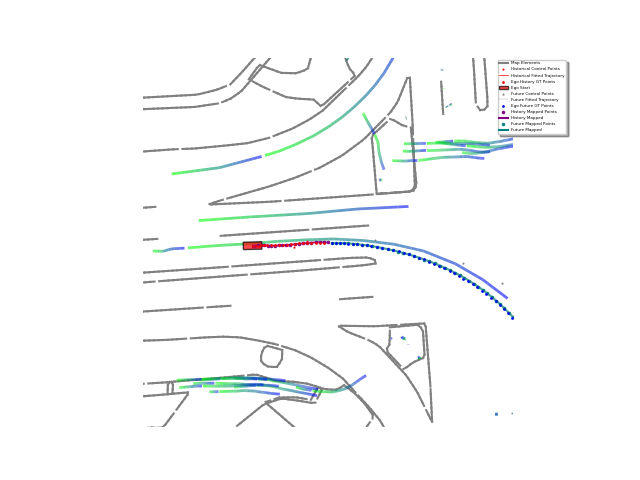
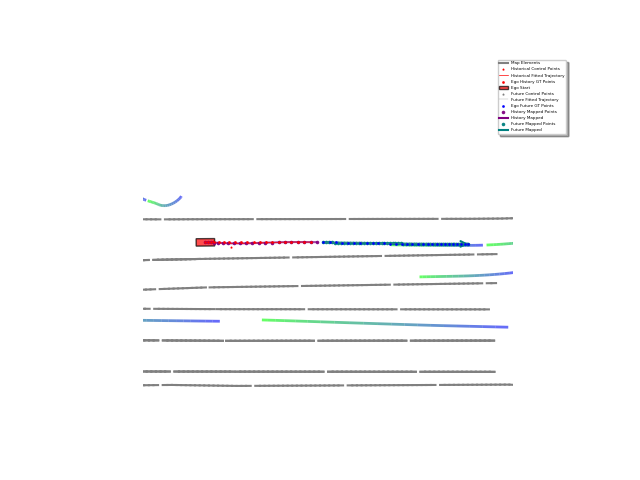
5.13.1 pipeline打通

diff --git a/unitraj/models/mtr/MTR.py b/unitraj/models/mtr/MTR.py
@@ -92,6 +92,13 @@ class MTREncoder(nn.Module):
             num_layers=self.model_cfg.NUM_LAYER_IN_MLP_AGENT,
             out_channels=self.model_cfg.D_MODEL
         )
+        # build polyline encoders
+        self.ego_polyline_encoder = self.build_polyline_encoder(
+            in_channels=self.model_cfg.NUM_INPUT_ATTR_AGENT + 3,
+            hidden_dim=self.model_cfg.NUM_CHANNEL_IN_MLP_AGENT,
+            num_layers=self.model_cfg.NUM_LAYER_IN_MLP_AGENT,
+            out_channels=self.model_cfg.D_MODEL
+        )
         self.map_polyline_encoder = self.build_polyline_encoder(
             in_channels=self.model_cfg.NUM_INPUT_ATTR_MAP,
             hidden_dim=self.model_cfg.NUM_CHANNEL_IN_MLP_MAP,
@@ -228,14 +235,63 @@ class MTREncoder(nn.Module):
 
         num_center_objects, num_objects, num_timestamps, _ = obj_trajs.shape
         num_polylines = map_polylines.shape[1]
+        combined_features = None
+        ego_trajs_mask = None
+            # 合并自车控制离散点特征到obj_trajs中
+        if "history_ctrl_mapped_trajectories" in input_dict:
+            ctrl_features = input_dict["history_ctrl_mapped_trajectories"]  # [8,21,2]
+            combined_features = torch.zeros(
+            (num_center_objects, num_timestamps, 41),  # 39+2=41
+            dtype=obj_trajs.dtype,
+            device=obj_trajs.device
+        )
+            ego_trajs_mask = torch.zeros(
+            (num_center_objects, 1, num_timestamps),
+            dtype=torch.bool,
+            device=obj_trajs_mask.device
+        )
+
+
 
         # apply polyline encoder
         obj_trajs_in = torch.cat((obj_trajs, obj_trajs_mask[:, :, :, None].type_as(obj_trajs)), dim=-1)
+        #B,64,256
         obj_polylines_feature = self.agent_polyline_encoder(obj_trajs_in,
                                                             obj_trajs_mask)  # (num_center_objects, num_objects, C)
+        #B,728,256
         map_polylines_feature = self.map_polyline_encoder(map_polylines,
-                                                          map_polylines_mask)  # (num_center_objects, num_polylines, C)
+                                                          map_polylines_mask) 
+                # 为每个中心车辆（自车）
+        for i in range(num_center_objects):
+            ego_idx = track_index_to_predict[i]
+            
+            # 创建新的特征张量，包含原始特征和控制特征
+            ego_features = obj_trajs[i, ego_idx].unsqueeze(0)  # [1,21,39]
+            ctrl_features_i = ctrl_features[i].unsqueeze(0) 
+            combined_features = torch.cat([ego_features, ctrl_features_i], dim=-1)  # [1,21,41]
+            ego_trajs_mask[i, 0] = obj_trajs_mask[i, ego_idx]
 
+            #   堆叠特征
+            combined_features_in = torch.zeros(
+                (num_center_objects, 1, num_timestamps, 41),
+                dtype=obj_trajs.dtype,
+                device=obj_trajs.device
+            )
+            combined_features_in[i] = combined_features
+
+                    # 添加mask维度以匹配encoder的输入格式
+        combined_features_in = torch.cat([
+            combined_features_in,  # [B,1,21,41]
+            ego_trajs_mask.unsqueeze(-1).type_as(combined_features_in)  # [B,1,21,1]
+        ], dim=-1)
+        ego_polylines_feature = self.ego_polyline_encoder(combined_features_in,
+                                                         ego_trajs_mask) 
+        # 用ego_polylines_feature替换center_objects_feature中对应位置的特征
+        center_objects_feature = ego_polylines_feature 
+        for i in range(num_center_objects):
+            ego_idx = track_index_to_predict[i]
+            obj_polylines_feature[i, ego_idx] = center_objects_feature[i]
+            
         # apply self-attn
         obj_valid_mask = (obj_trajs_mask.sum(dim=-1) > 0)  # (num_center_objects, num_objects)
         map_valid_mask = (map_polylines_mask.sum(dim=-1) > 0)  # (num_center_objects, num_polylines)
@@ -268,6 +324,9 @@ class MTREncoder(nn.Module):
         batch_dict['map_mask'] = map_valid_mask
         batch_dict['obj_pos'] = obj_trajs_last_pos
         batch_dict['map_pos'] = map_polylines_center
+        # 【修改】保存合并特征到batch_dict中，以便后续使用
+        if combined_features is not None:
+            batch_dict['ego_combined_features'] = combined_features
 
         return batch_dict
 
@@ -343,7 +402,7 @@ class MTRDecoder(nn.Module):
         )
         self.dense_future_head = build_mlps(
             c_in=hidden_dim * 2,
-            mlp_channels=[hidden_dim, hidden_dim, num_future_frames * 7], ret_before_act=True
+            mlp_channels=[hidden_dim, hidden_dim, num_future_frames * 9], ret_before_act=True
         )
 
         self.future_traj_mlps = build_mlps(
@@ -395,7 +454,7 @@ class MTRDecoder(nn.Module):
     def build_motion_head(self, in_channels, hidden_size, num_decoder_layers):
         motion_reg_head = build_mlps(
             c_in=in_channels,
-            mlp_channels=[hidden_size, hidden_size, self.num_future_frames * 7], ret_before_act=True
+            mlp_channels=[hidden_size, hidden_size, self.num_future_frames * 9], ret_before_act=True
         )
         motion_cls_head = build_mlps(
             c_in=in_channels,
@@ -417,7 +476,7 @@ class MTRDecoder(nn.Module):
         obj_fused_feature_valid = torch.cat((obj_pos_feature_valid, obj_feature_valid), dim=-1)
 
         pred_dense_trajs_valid = self.dense_future_head(obj_fused_feature_valid)
-        pred_dense_trajs_valid = pred_dense_trajs_valid.view(pred_dense_trajs_valid.shape[0], self.num_future_frames, 7)
+        pred_dense_trajs_valid = pred_dense_trajs_valid.view(pred_dense_trajs_valid.shape[0], self.num_future_frames, 9)
 
         temp_center = pred_dense_trajs_valid[:, :, 0:2] + obj_pos_valid[:, None, 0:2]
         pred_dense_trajs_valid = torch.cat((temp_center, pred_dense_trajs_valid[:, :, 2:]), dim=-1)
@@ -433,7 +492,7 @@ class MTRDecoder(nn.Module):
         ret_obj_feature = torch.zeros_like(obj_feature)
         ret_obj_feature[obj_mask] = obj_feature_valid
 
-        ret_pred_dense_future_trajs = obj_feature.new_zeros(num_center_objects, num_objects, self.num_future_frames, 7)
+        ret_pred_dense_future_trajs = obj_feature.new_zeros(num_center_objects, num_objects, self.num_future_frames, 9)
         ret_pred_dense_future_trajs[obj_mask] = pred_dense_trajs_valid
         self.forward_ret_dict['pred_dense_trajs'] = ret_pred_dense_future_trajs
 
@@ -631,10 +690,12 @@ class MTRDecoder(nn.Module):
                                                                                     self.num_future_frames, 5)
                 pred_vel = self.motion_vel_heads[layer_idx](query_content_t).view(num_center_objects, num_query,
                                                                                   self.num_future_frames, 2)
-                pred_trajs = torch.cat((pred_trajs, pred_vel), dim=-1)
+                pred_ctrl = self.motion_vel_heads[layer_idx](query_content_t).view(num_center_objects, num_query,
+                                                                                  self.num_future_frames, 2)
+                pred_trajs = torch.cat((pred_trajs, pred_vel,pred_ctrl), dim=-1)
             else:
                 pred_trajs = self.motion_reg_heads[layer_idx](query_content_t).view(num_center_objects, num_query,
-                                                                                    self.num_future_frames, 7)
+                                                                                    self.num_future_frames, 9)
 
             pred_list.append([pred_scores, pred_trajs])
 
@@ -650,6 +711,7 @@ class MTRDecoder(nn.Module):
         return pred_list
 
     def get_decoder_loss(self, tb_pre_tag=''):
+        center_gt_ctrl_trajs = self.forward_ret_dict['future_GT_ctrl_mapped_trajectories']
         center_gt_trajs = self.forward_ret_dict['center_gt_trajs']
         center_gt_trajs_mask = self.forward_ret_dict['center_gt_trajs_mask']
         center_gt_final_valid_idx = self.forward_ret_dict['center_gt_final_valid_idx'].long()
@@ -676,8 +738,8 @@ class MTRDecoder(nn.Module):
                 raise NotImplementedError
 
             pred_scores, pred_trajs = pred_list[layer_idx]
-            assert pred_trajs.shape[-1] == 7
-            pred_trajs_gmm, pred_vel = pred_trajs[:, :, :, 0:5], pred_trajs[:, :, :, 5:7]
+            assert pred_trajs.shape[-1] == 9
+            pred_trajs_gmm, pred_vel ,pred_ctrl= pred_trajs[:, :, :, 0:5], pred_trajs[:, :, :, 5:7], pred_trajs[:, :, :, 7:9]
 
             loss_reg_gmm, center_gt_positive_idx = loss_utils.nll_loss_gmm_direct(
                 pred_scores=pred_scores, pred_trajs=pred_trajs_gmm,
@@ -689,15 +751,25 @@ class MTRDecoder(nn.Module):
             pred_vel = pred_vel[torch.arange(num_center_objects), center_gt_positive_idx]
             loss_reg_vel = F.l1_loss(pred_vel, center_gt_trajs[:, :, 2:4], reduction='none')
             loss_reg_vel = (loss_reg_vel * center_gt_trajs_mask[:, :, None]).sum(dim=-1).sum(dim=-1)
+            # 计算控制点预测损失
+            pred_ctrl = pred_ctrl[torch.arange(num_center_objects), center_gt_positive_idx]  # [B,T,2]
+            center_gt_ctrl_trajs = self.forward_ret_dict['future_GT_ctrl_mapped_trajectories']  # [B,T,2]
+            
+            # 计算L2损失
+            loss_ctrl = F.mse_loss(pred_ctrl, center_gt_ctrl_trajs, reduction='none')  # [B,T,2]
+            # 应用mask并计算平均损失
+            loss_ctrl = (loss_ctrl * center_gt_trajs_mask[:, :, None]).sum(dim=-1).sum(dim=-1) / torch.clamp_min(center_gt_trajs_mask.sum(dim=-1), min=1.0)
+            loss_ctrl = loss_ctrl.mean()
 
             loss_cls = F.cross_entropy(input=pred_scores, target=center_gt_positive_idx, reduction='none')
 
             # total loss
             weight_cls = self.model_cfg.LOSS_WEIGHTS.get('cls', 1.0)
             weight_reg = self.model_cfg.LOSS_WEIGHTS.get('reg', 1.0)
+            weight_ctrl = self.model_cfg.LOSS_WEIGHTS.get('ctrl', 0.5)
             weight_vel = self.model_cfg.LOSS_WEIGHTS.get('vel', 0.2)
 
-            layer_loss = loss_reg_gmm * weight_reg + loss_reg_vel * weight_vel + loss_cls.sum(dim=-1) * weight_cls
+            layer_loss = loss_reg_gmm * weight_reg + loss_reg_vel * weight_vel + loss_cls.sum(dim=-1) * weight_cls + loss_ctrl * weight_ctrl
             layer_loss = layer_loss.mean()
             total_loss += layer_loss
             tb_dict[f'{tb_pre_tag}loss_layer{layer_idx}'] = layer_loss.item()
@@ -725,13 +797,14 @@ class MTRDecoder(nn.Module):
         obj_trajs_future_mask = self.forward_ret_dict['obj_trajs_future_mask']
         pred_dense_trajs = self.forward_ret_dict[
             'pred_dense_trajs']  # (num_center_objects, num_objects, num_future_frames, 7)
-        assert pred_dense_trajs.shape[-1] == 7
+        assert pred_dense_trajs.shape[-1] == 9
         assert obj_trajs_future_state.shape[-1] == 4
 
-        pred_dense_trajs_gmm, pred_dense_trajs_vel = pred_dense_trajs[:, :, :, 0:5], pred_dense_trajs[:, :, :, 5:7]
+        pred_dense_trajs_gmm, pred_dense_trajs_vel,pred_dense_trajs_ctrl = pred_dense_trajs[:, :, :, 0:5], pred_dense_trajs[:, :, :, 5:7], pred_dense_trajs[:, :, :, 7:9]
 
         loss_reg_vel = F.l1_loss(pred_dense_trajs_vel, obj_trajs_future_state[:, :, :, 2:4], reduction='none')
         loss_reg_vel = (loss_reg_vel * obj_trajs_future_mask[:, :, :, None]).sum(dim=-1).sum(dim=-1)
+
 
         num_center_objects, num_objects, num_timestamps, _ = pred_dense_trajs.shape
         fake_scores = pred_dense_trajs.new_zeros((num_center_objects, num_objects)).view(-1,
@@ -750,7 +823,12 @@ class MTRDecoder(nn.Module):
         )
         loss_reg_gmm = loss_reg_gmm.view(num_center_objects, num_objects)
 
-        loss_reg = loss_reg_vel + loss_reg_gmm
+
+
+        # 合并所有损失
+        weight_vel = self.model_cfg.LOSS_WEIGHTS.get('vel', 0.2)
+
+        loss_reg = loss_reg_gmm + loss_reg_vel * weight_vel
 
         obj_valid_mask = obj_trajs_future_mask.sum(dim=-1) > 0
 
@@ -764,6 +842,9 @@ class MTRDecoder(nn.Module):
             disp_dict = {}
 
         tb_dict[f'{tb_pre_tag}loss_dense_prediction'] = loss_reg.item()
+        tb_dict[f'{tb_pre_tag}loss_dense_prediction_vel'] = loss_reg_vel.mean().item() * weight_vel
+        
+
         return loss_reg, tb_dict, disp_dict
 
     def get_loss(self, tb_pre_tag=''):
@@ -836,6 +917,7 @@ class MTRDecoder(nn.Module):
         self.forward_ret_dict['obj_trajs_future_mask'] = input_dict['obj_trajs_future_mask']
 
         self.forward_ret_dict['center_objects_type'] = input_dict['center_objects_type']
+        self.forward_ret_dict['future_GT_ctrl_mapped_trajectories'] = input_dict['future_ctrl_mapped_trajectories']
 
         if not self.training:
             pred_scores, pred_trajs = self.generate_final_prediction(pred_list=pred_list, batch_dict=batch_dict)
